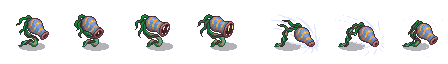
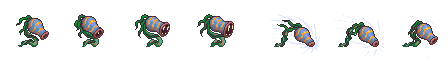
feat: zumbi (ghoul) no Jardim Sangrento e conferência da paleta AAP-64
- Folha do ghoul fatiada em faixas (ampliada 2x) e remapeada para a AAP-64; no mapa 2 o
  corpo a corpo sorteia planta vermelha ou zumbi.
- recolor_monsters.py grava alfa binário (plantas sem sombra translúcida).
- tools/pixel_art/check_palette.py confere cores e alfa das folhas de pixel art.

Claude-Session: https://claude.ai/code/session_019MYRPNFKhvuqz3wg54Nj5s

diff --git a/tools/pixel_art/check_palette.py b/tools/pixel_art/check_palette.py
@@ -1,0 +1,47 @@
+"""Confere se as folhas de pixel art usam só cores da AAP-64 e alfa binário (0 ou 255).
+
+Sem argumentos, confere o kit da cripta, o kit do Jardim Sangrento, os chãos, os efeitos e os monstros (menos a
+Guardiã, que fica em magenta de propósito; ver assets/pixel_art/monsters/SOURCE.md). As alturas (heights/) ficam
+de fora: não são cor. Sai com 1 se alguma folha tiver cor fora da paleta ou alfa parcial.
+
+Uso: py tools/pixel_art/check_palette.py [pasta ...]
+"""
+import pathlib
+import sys
+
+import numpy as np
+from PIL import Image
+
+ROOT = pathlib.Path(__file__).resolve().parents[2]
+sys.path.insert(0, str(ROOT / "tools" / "pixel_art" / "monsters"))
+from recolor_monsters import AAP64, hex_to_rgb  # noqa: E402
+
+DEFAULT = ["assets/pixel_art/crypt", "assets/pixel_art/garden", "assets/pixel_art/tiles", "assets/pixel_art/effects",
+           "assets/pixel_art/monsters"]
+EXCEPTIONS = ["assets/pixel_art/monsters/mage_guardian"]
+
+
+def main():
+    palette = {tuple(hex_to_rgb(h)) for h in AAP64}
+    folders = sys.argv[1:] or DEFAULT
+    errors = checked = 0
+    for folder in folders:
+        for path in sorted((ROOT / folder).rglob("*.png")):
+            rel = path.relative_to(ROOT).as_posix()
+            if "/heights/" in rel or any(rel.startswith(e + "/") for e in EXCEPTIONS):
+                continue
+            checked += 1
+            rgba = np.array(Image.open(path).convert("RGBA"))
+            alpha = rgba[..., 3]
+            colors = {tuple(int(v) for v in c) for c in np.unique(rgba[alpha > 0][:, :3], axis=0)}
+            off = colors - palette
+            partial = int(((alpha > 0) & (alpha < 255)).sum())
+            if off or partial:
+                errors += 1
+                print(f"ERRO {rel}: {len(off)} cor(es) fora da AAP-64, {partial} pixel(s) com alfa parcial")
+    print(f"check_palette: {checked} folha(s), {errors} com erro.")
+    return 1 if errors else 0
+
+
+if __name__ == "__main__":
+    sys.exit(main())

diff --git a/scripts/enemies/EnemyVisualCatalog.cs b/scripts/enemies/EnemyVisualCatalog.cs
@@ -64,12 +64,12 @@ public static class EnemyVisualCatalog
     };
 
     // Modo 2D: monstros em pixel art (PixelEnemySprite). Corpo a corpo = goblin ou cogumelo, a distancia = olho voador,
-    // tanque = esqueleto. No Jardim Sangrento (mapa 2), plantas predadoras. Chefes: GetBoss.
+    // tanque = esqueleto. No Jardim Sangrento (mapa 2), plantas predadoras e, no corpo a corpo, metade zumbis. Chefes: GetBoss.
     private static EnemyVisualDefinition GetPixelEnemy(EnemyArchetype archetype) => RunState.CurrentMapIndex == GardenMapIndex ? archetype switch
     {
         EnemyArchetype.Ranged => new(PixelEnemySprite.PathPrefix + "plant_bulb", 1.0f, "Idle", 0.48f, false, 1.0f, 0.0f, "Walk", "Attack", "HitReact"),
         EnemyArchetype.Tank => new(PixelEnemySprite.PathPrefix + "plant_purple", 1.0f, "Idle", 0.68f, false, 1.0f, 0.0f, "Walk", "Attack", "HitReact"),
-        _ => new(PixelEnemySprite.PathPrefix + "plant_red", 1.0f, "Idle", 0.48f, false, 1.0f, 0.0f, "Walk", "Attack", "HitReact")
+        _ => new(PixelEnemySprite.PathPrefix + (Godot.GD.Randf() < 0.5f ? "plant_red" : "ghoul"), 1.0f, "Idle", 0.48f, false, 1.0f, 0.0f, "Walk", "Attack", "HitReact")
     } : archetype switch
     {
         EnemyArchetype.Ranged => new(PixelEnemySprite.PathPrefix + "flying_eye", 1.0f, "Idle", 0.48f, false, 1.0f, 0.0f, "Walk", "Attack", "HitReact"),

diff --git a/tools/pixel_art/monsters/recolor_monsters.py b/tools/pixel_art/monsters/recolor_monsters.py
@@ -10,7 +10,7 @@ Cada cor do original vira a cor da AAP-64 mais próxima em OKLab, com mais peso 
 o volume do sombreado) e menos no croma. Os vermelhos saturados (olhos, sangue) ficam presos à rampa de sangue
 e os cinzas neutros (metal) à rampa fria da pedra da cripta. Duas cores do original que caíssem na mesma cor da paleta são
 separadas pela segunda opção mais próxima quando a diferença de luminosidade entre elas é visível, para não
-apagar detalhes. A transparência é mantida como está.
+apagar detalhes. A transparência vira binária (alfa 0 ou 255, corte em 128), como o corte de alfa do Sprite3D no jogo.
 """
 import argparse
 import pathlib
@@ -147,6 +147,9 @@ def main():
         for f in files:
             src = Image.open(f).convert("RGBA")
             dst = recolor(src, mapping)
+            # Pixel art sem meio-termo: alfa vira 0 ou 255 (sombras translúcidas somem, como no corte de alfa do jogo).
+            alpha = np.array(dst)[:, :, 3]
+            dst.putalpha(Image.fromarray(np.where(alpha >= 128, 255, 0).astype(np.uint8)))
             used = {tuple(int(v) for v in px) for px in np.unique(
                 np.array(dst).reshape(-1, 4)[np.array(dst).reshape(-1, 4)[:, 3] > 0][:, :3], axis=0)}
             assert used <= allowed, (f, used - allowed)

diff --git a/scripts/pixel/PixelEnemySprite.cs b/scripts/pixel/PixelEnemySprite.cs
@@ -37,6 +37,8 @@ public partial class PixelEnemySprite : Node3D
         ["plant_red"] = Clips("idle", "walk"),
         ["plant_bulb"] = Clips("idle", "walk"),
         ["plant_purple"] = Clips("idle", "walk"),
+        // Zumbi (ghoul) do Jardim Sangrento: quadros de 32 px ampliados 2x (tools/pixel_art/monsters/source/ghoul/).
+        ["ghoul"] = Clips("idle", "walk"),
     };
 
     // Quadro quadrado de cada folha (padrão: 150 px do Monsters Creatures Fantasy). Os pés ficam em y≈FrameSize-49
@@ -47,14 +49,17 @@ public partial class PixelEnemySprite : Node3D
         ["plant_red"] = 64,
         ["plant_bulb"] = 64,
         ["plant_purple"] = 64,
+        ["ghoul"] = 64,
     };
 
-    // Pés abaixo do centro do quadro, quando não são os 26 px padrão (plantas: pés em y≈51 do quadro de 64).
+    // Pés abaixo do centro do quadro, quando não são os 26 px padrão (plantas: pés em y≈51 do quadro de 64; zumbi: na
+    // última linha do quadro).
     private static readonly Dictionary<string, float> FeetOffsets = new()
     {
         ["plant_red"] = 19.0f,
         ["plant_bulb"] = 19.0f,
         ["plant_purple"] = 19.0f,
+        ["ghoul"] = 31.0f,
     };
 
     private static readonly Dictionary<string, Texture2D> TextureCache = new();

diff --git a/assets/pixel_art/monsters/SOURCE.md b/assets/pixel_art/monsters/SOURCE.md
@@ -55,8 +55,36 @@ recortados ficam em `tools/pixel_art/monsters/source/plant_*/`.
 | `plant_bulb/` | Plant2 | à distância |
 | `plant_purple/` | Plant3 | tanque |
 
+O corpo a corpo do mapa 2 sorteia meio a meio entre `plant_red` e `ghoul` (abaixo).
+
 Arquivos: `idle`, `walk`, `attack`, `hit`, `death` (Idle, Walk, Attack, Hurt, Death do pacote).
 
 - **Autor:** Craftpix (craftpix.net).
 - **Licença:** licença de arquivos da Craftpix (https://craftpix.net/file-licenses/), indicada no `License.txt` do
   pacote: uso em jogos, inclusive comerciais, sem exigir atribuição; não pode redistribuir os arquivos soltos.
+
+## ghoul (zumbi do Jardim Sangrento, mapa 2)
+
+`Ghoul Sprite Sheet.png`, enviada pelo Pedro como exemplo (folha de 256x160, 8 colunas x 5 linhas de quadros de
+32x32, olhando para a direita). Cada linha virou uma faixa ampliada 2x com vizinho mais próximo (quadros de 64x64, pés
+na última linha, `PixelEnemySprite.FeetOffsets` = 31) em `tools/pixel_art/monsters/source/ghoul/`, e depois foi
+remapeada para a AAP-64 como os outros. Por ser ampliado, o pixel do zumbi sai 2x maior que o das outras folhas.
+
+| Linha | Arquivo | Quadros |
+|---|---|---|
+| 1 | `idle` | 4 |
+| 2 | `walk` | 8 |
+| 3 | `attack` | 6 |
+| 4 | `hit` | 4 |
+| 5 | `death` | 6 |
+
+- **Autor e licença:** NÃO REGISTRADOS. Antes de distribuir o jogo, confirmar a origem do pacote e registrar aqui e em
+  `CREDITS.md`.
+
+## Conferência da paleta
+
+    py tools/pixel_art/check_palette.py
+
+Confere se as folhas (cripta, jardim, chãos, efeitos e monstros, menos a Guardiã) usam só cores da AAP-64 e alfa
+0 ou 255. O `recolor_monsters.py` já grava o alfa binário (as sombras translúcidas das plantas somem, como já
+sumiam no corte de alfa do jogo).

diff --git a/CREDITS.md b/CREDITS.md
@@ -64,6 +64,7 @@ Os arquivos abaixo estão no projeto sem `SOURCE.md` nem licença documentada. A
 
 - Músicas: `audio/ambience/*.mp3` (Floor 1–3, Game Over, Hub, Main Menu Theme) e `audio/boss/*.mp3`.
 - Efeitos: `audio/effects/Boss Defeated.mp3`, `Death.mp3`, `Treasure.mp3`.
+- Zumbi do modo 2D (`assets/pixel_art/monsters/ghoul/`): `Ghoul Sprite Sheet.png`, origem a confirmar (ver `assets/pixel_art/monsters/SOURCE.md`).
 - Monstros do modo 2D: `assets/pixel_art/monsters/*` (pacote “Monsters Creatures Fantasy”, provavelmente de Luiz Melo; ver o `SOURCE.md` da pasta).
 - Imagens: `images/bloodBoons/*`, `images/effects/*`, `images/inventory/*`, `images/generic.png` e `icon.png`.
 
